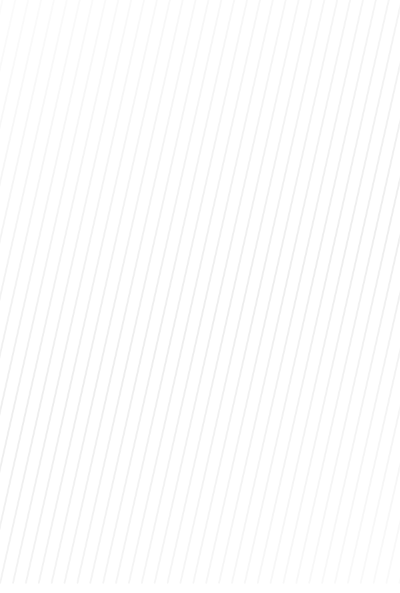
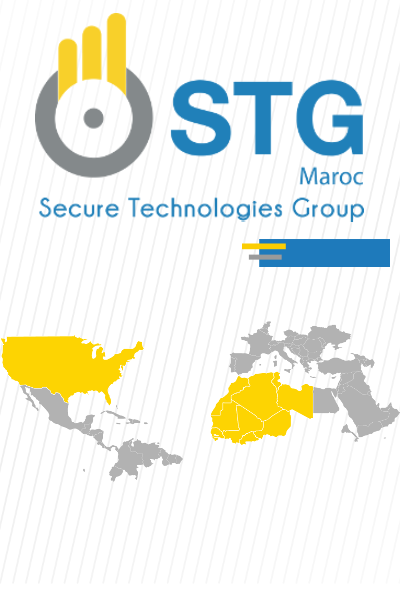
changing about us photo

diff --git a/resources/views/a_propos_de_nous.blade.php b/resources/views/a_propos_de_nous.blade.php
@@ -6,9 +6,9 @@
 <div class="container enonce-content about-us">
         <div class="row">
             <div class="col-sm-5 col-sm-push-7 about-us-left">
-                <img style="max-width: 100% !important" class="img-responsive about-us-image" src="/assets/images/logo_slogan.png" alt="president">
-                <img style="margin-left :90px; margin-top: 30px; margin-bottom: 50px; max-width: 45% !important" class="img-responsive about-us-image bg-hor" src="/assets/images/president_bg_hor.png" alt="">
-                <img style="max-width: 90% !important" class="img-responsive about-us-image hidden-xs" src="/assets/images/map_1.png" alt="">
+               <!--  <img style="max-width: 100% !important" class="img-responsive about-us-image" src="/assets/images/logo_slogan.png" alt="president"> -->
+                <img style="margin-top: 30px; margin-bottom: 50px; max-width: 100% !important" class="img-responsive about-us-image bg-hor" src="/assets/images/motif.png" alt="">
+                <!-- <img style="max-width: 90% !important" class="img-responsive about-us-image hidden-xs" src="/assets/images/map_1.png" alt=""> -->
             </div>
             <div class="col-sm-7 col-sm-pull-5">
                 <h1 class="title">QUI SOMMES-NOUS?</h1>
